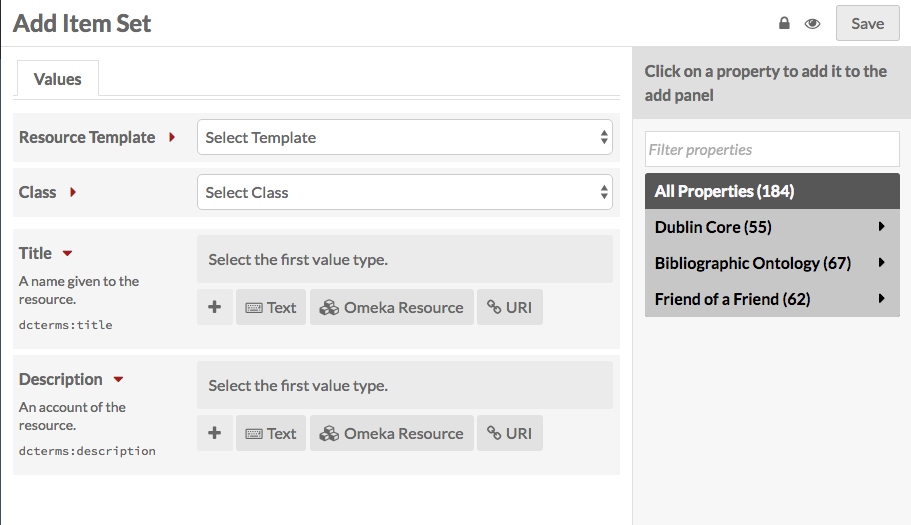
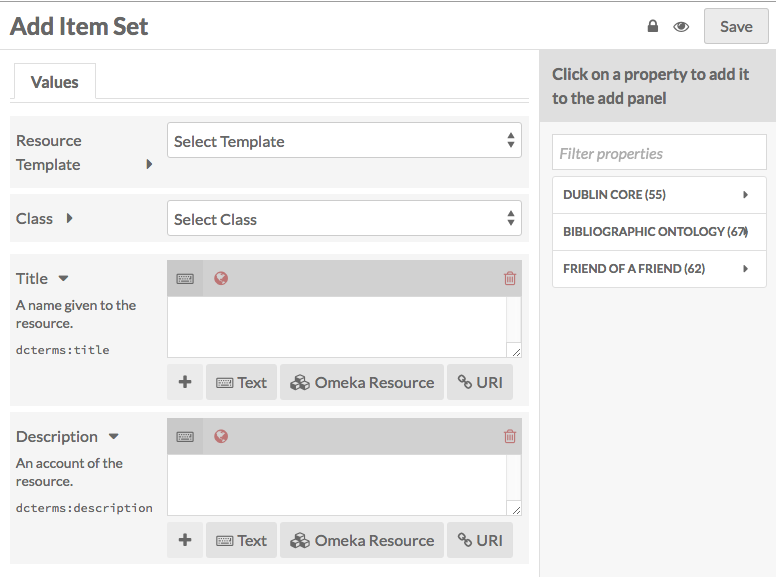
update itemset add image

diff --git a/content/item-sets.md b/content/item-sets.md
@@ -36,6 +36,8 @@ To create a new item set, click the Item Sets tab from the left navigation of th
 
 Item sets may use the same resource templates available for items to provide pre-selected fields. Each set should contain at least one descriptive value, such as Dublin Core Description. 
 
+![Add item set, no properties selected](../content/contentfiles/itemsets_add.png)
+
 In the *Values* tab:
 - You may add text, a resource from the installation, or an external link in each field.  
     * *Text* fields are entered with text, which can include HTML code. The keyboard at the top of the field input indicates text. The globe icon which appears next to it can be used to set language. 
